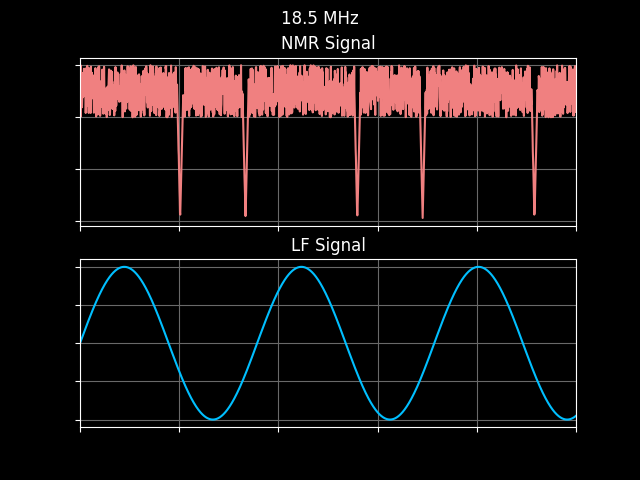
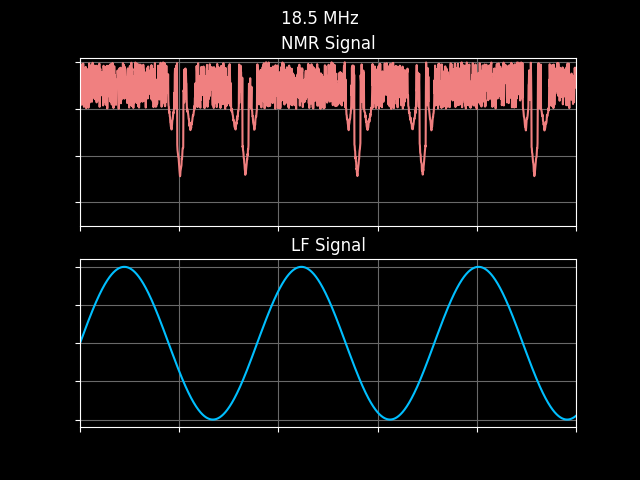
add double and trip peak profiles to generator

Changed region(s): [[0.125, 0.125, 0.9062, 0.4688]]

diff --git a/signal_generator.py b/signal_generator.py
@@ -3,7 +3,7 @@ import numpy as np
 import matplotlib.pyplot as plt
 import random
 
-# TODO make double and triple peaks
+
 def generate_signal(resonance_frq):
     # Create a random signal
     data_points = np.linspace(0, 0.1, 2000) # generate data points
@@ -13,12 +13,29 @@ def generate_signal(resonance_frq):
     # Conditionally set the y values
     HF_signal = np.random.rand(len(data_points)) + 3
     for n in range(len(data_points)):
-        if resonance_frq - .1 < LF_signal[n] < resonance_frq + .1:
-            HF_signal[n] = random.random()/10 + 1 + 25*abs(resonance_frq-LF_signal[n])  # Set resonance
-       
+        # Single Peak
+        # if resonance_frq - .1 < LF_signal[n] < resonance_frq + .1:
+        #     HF_signal[n] = random.random()/10 + 1 + 25*abs(resonance_frq-LF_signal[n])
+        # Double Peak
+        # resonance_high = resonance_frq + .25
+        # resonance_low = resonance_frq - .25
+        # if resonance_high - .1 < LF_signal[n] < resonance_high + .1:
+        #     HF_signal[n] = random.random()/10 + 2 + 5*abs((resonance_high)-(LF_signal[n]))
+        # elif resonance_low - .1 < LF_signal[n] < resonance_low + .1:
+        #     HF_signal[n] = random.random()/10 + 2 + 5*abs((resonance_low)-(LF_signal[n]))
+        # Triple Peak
+        resonance_high = resonance_frq + .3
+        resonance_low = resonance_frq - .3
+        if resonance_high - .1 < LF_signal[n] < resonance_high + .1:
+            HF_signal[n] = random.random()/10 + 2.5 + 5*abs((resonance_high)-(LF_signal[n]))
+        elif resonance_low - .1 < LF_signal[n] < resonance_low + .1:
+            HF_signal[n] = random.random()/10 + 2.5 + 5*abs((resonance_low)-(LF_signal[n]))
+        elif resonance_frq - .1 < LF_signal[n] < resonance_frq + .1:
+            HF_signal[n] = random.random()/10 + 1.5 + 7*abs((resonance_frq)-(LF_signal[n]))
+
     return data_points, HF_signal, LF_signal
 
-# TODO Plot High Frequency setting
+
 def plot(time, signal, sine_wave, HF_setting):
     # Plot the Signals
     plt.style.use('dark_background')
@@ -32,6 +49,7 @@ def plot(time, signal, sine_wave, HF_setting):
     ax1.grid(color='dimgrey')
     ax1.set_xticklabels([])
     ax1.set_yticklabels([])
+    ax1.set_ylim((0.5, 4.1))
     ax2.plot(time, sine_wave, color='deepskyblue')
     ax2.set_title("LF Signal")
     # ax2.set_ylim((0, 5))
